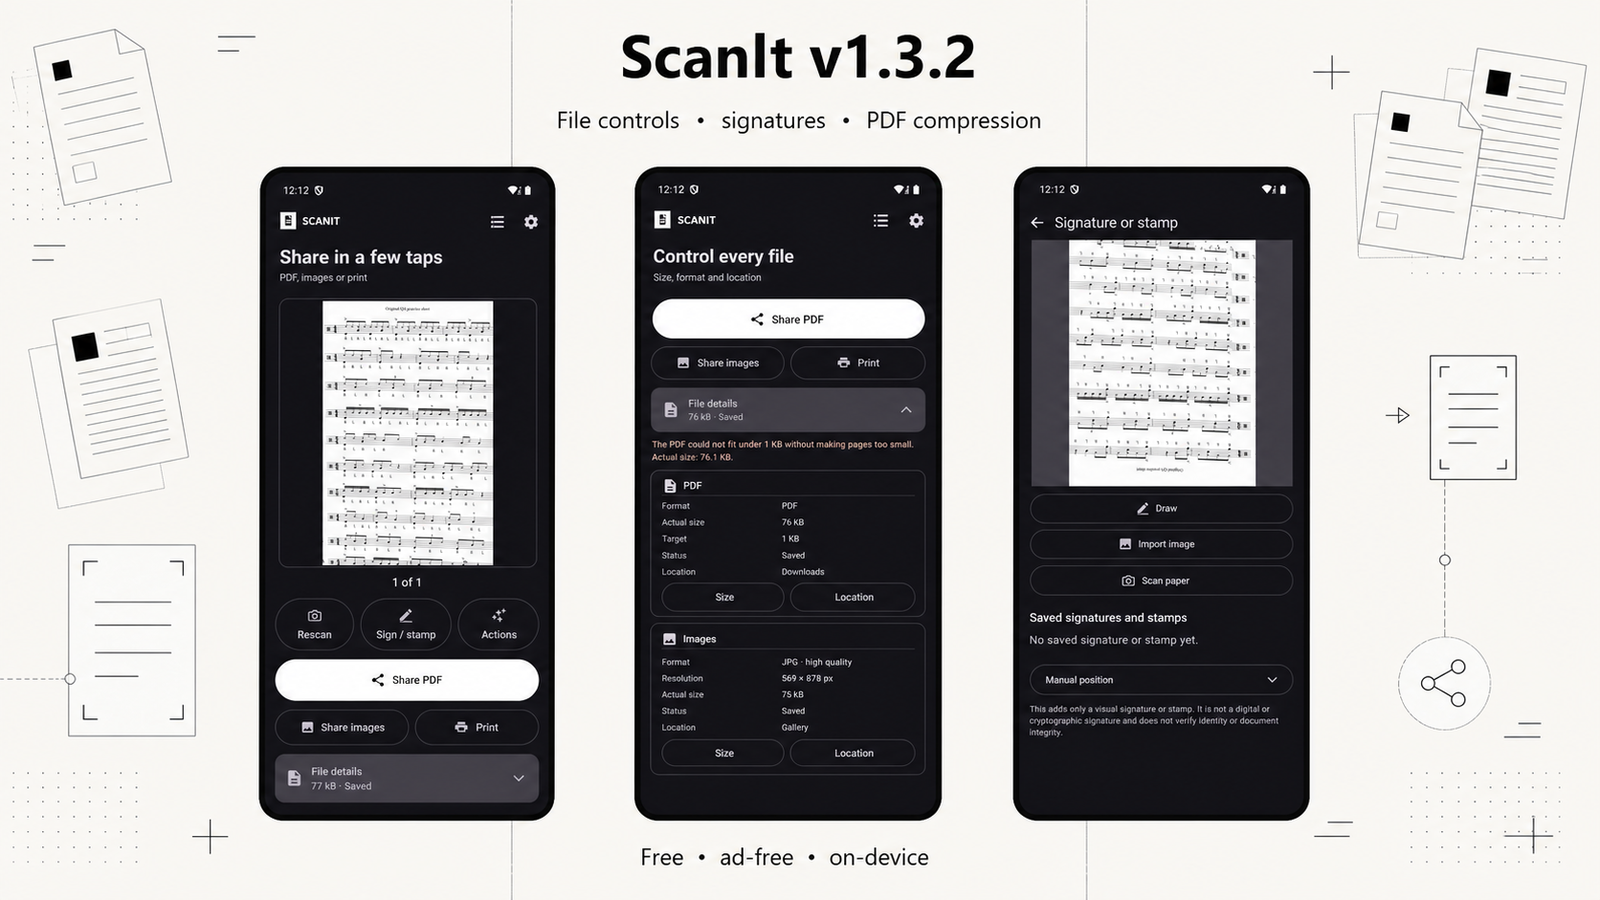
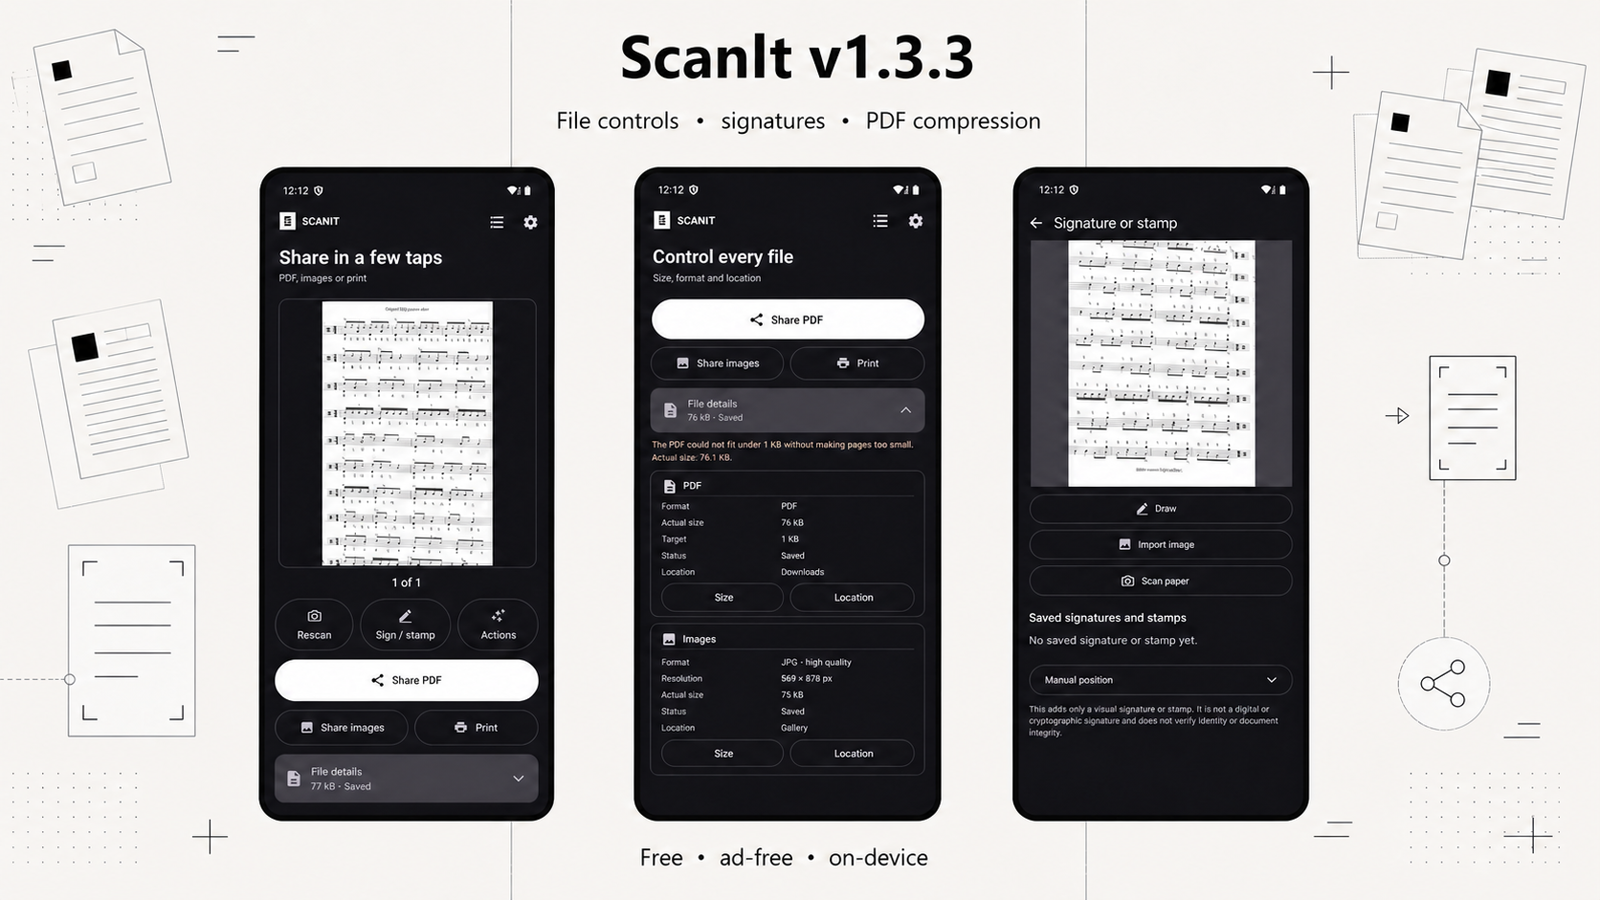
chore(release): prepare ScanIt 1.3.3

diff --git a/docs/play-store/PLAY_CONSOLE.md b/docs/play-store/PLAY_CONSOLE.md
@@ -19,8 +19,8 @@ submitted declarations:
 |---|---|
 | App name | `ScanIt` |
 | Package | `com.majkeylab.scanit` |
-| Version code | `16` |
-| Version name | `1.3.2` |
+| Version code | `17` |
+| Version name | `1.3.3` |
 | Default language | English (United States) |
 | App or game | App |
 | Category | Productivity |
@@ -126,29 +126,29 @@ the Play developer account.
 >
 > Skener používá Google ML Kit Document Scanner a vyžaduje služby Google Play. Služby Google Play mohou před prvním použitím stáhnout modul skeneru nebo rozpoznávání a zpracovávat omezené diagnostické a provozní údaje.
 
-## Release notes — version 16 / 1.3.2
+## Release notes — version 17 / 1.3.3
 
 Each block is below Google Play's 500-character per-language limit.
 
 ### English (United States)
 
-> PDF targets now include 200 KB, 500 KB, and 1 MB, plus custom values from 1 KB to 500 MB. Result actions are more compact. File details groups image Size and Location beside each other with Format below. App info restores Privacy policy, third-party notices, source code, and version links.
+> Result actions are now compact 48 dp buttons with smaller icons and spacing while preserving accessible touch targets. The refreshed Result screenshot matches the final layout. PDF targets still include 200 KB, 500 KB, 1 MB, and custom values from 1 KB to 500 MB.
 
 ### Čeština
 
-> Cíle PDF nově zahrnují 200 KB, 500 KB a 1 MB i vlastní hodnotu 1 KB–500 MB. Akce výsledku jsou úspornější. Detaily souboru řadí velikost a umístění obrázků vedle sebe a formát pod ně. Informace o aplikaci znovu obsahují soukromí, oznámení třetích stran, zdrojový kód a verzi.
+> Akce výsledku jsou nyní kompaktní tlačítka 48 dp s menšími ikonami a rozestupy, ale zachovávají přístupnou dotykovou plochu. Aktualizovaný snímek odpovídá finálnímu vzhledu. Cíle PDF nadále zahrnují 200 KB, 500 KB, 1 MB a vlastní hodnoty 1 KB–500 MB.
 
 ### Deutsch
 
-> PDF-Ziele umfassen jetzt 200 KB, 500 KB und 1 MB sowie eigene Werte von 1 KB bis 500 MB. Ergebnisaktionen sind kompakter. Dateidetails zeigt Bildgröße und Speicherort nebeneinander, das Format darunter. App-Informationen enthält wieder Datenschutz, Drittanbieterhinweise, Quellcode und Version.
+> Die Ergebnisaktionen sind jetzt kompakte 48-dp-Schaltflächen mit kleineren Symbolen und Abständen bei zugänglichen Berührungszielen. Der aktualisierte Screenshot zeigt das finale Layout. PDF-Ziele umfassen weiterhin 200 KB, 500 KB, 1 MB und eigene Werte von 1 KB bis 500 MB.
 
 ### Español
 
-> Los objetivos de PDF ahora incluyen 200 KB, 500 KB y 1 MB, además de valores personalizados de 1 KB a 500 MB. Las acciones son más compactas. Detalles del archivo muestra Tamaño y Ubicación de imágenes juntos y Formato debajo. Información de la aplicación recupera privacidad, avisos, código fuente y versión.
+> Las acciones del resultado ahora son botones compactos de 48 dp con iconos y espacios menores, manteniendo objetivos táctiles accesibles. La captura actualizada refleja el diseño final. Los objetivos PDF siguen incluyendo 200 KB, 500 KB, 1 MB y valores personalizados de 1 KB a 500 MB.
 
 ### 简体中文
 
-> PDF 目标新增 200 KB、500 KB 和 1 MB，并支持 1 KB–500 MB 自定义值。结果操作更紧凑。文件详情将图片大小和位置并排显示，格式置于下方。应用信息重新提供隐私政策、第三方声明、源代码和版本。
+> 结果操作现采用紧凑的 48 dp 按钮、更小的图标和间距，同时保留易用的触控区域。更新后的截图与最终界面一致。PDF 目标仍支持 200 KB、500 KB、1 MB，以及 1 KB–500 MB 自定义值。
 
 The listing describes current implemented public behavior only. It does not
 claim certificate-backed signatures, guaranteed PDF compression, cloud
@@ -326,7 +326,7 @@ action, donation, unfinished feature, or device mockup in the feature graphic.
 
 ## Submission checklist
 
-- [ ] Signed AAB is exactly `com.majkeylab.scanit`, version code 16, version `1.3.2`; verify after the final release build.
+- [ ] Signed AAB is exactly `com.majkeylab.scanit`, version code 17, version `1.3.3`; verify after the final release build.
 - [x] R8 mapping from the exact build is retained. The only native library is a prebuilt dependency without a separate symbol payload; no fake symbols are uploaded.
 - [x] Public artifact contains no public cloud-processing code or app-owned `INTERNET` permission.
 - [x] Complete third-party license text and applicable notices are packaged with the APK/AAB distribution and verified in the exact artifact.

diff --git a/README.md b/README.md
@@ -13,10 +13,10 @@
 </p>
 
 <p align="center">
-  <a href="https://github.com/Majkey25/ScanIt/releases/tag/v1.3.2"><img src="docs/images/scanit-v1.1-update.png" width="100%" alt="ScanIt v1.3.2 showing the Result screen, file controls, and visual signature editor."></a>
+  <a href="https://github.com/Majkey25/ScanIt/releases/tag/v1.3.3"><img src="docs/images/scanit-v1.1-update.png" width="100%" alt="ScanIt v1.3.3 showing the Result screen, file controls, and visual signature editor."></a>
 </p>
 
-## v1.3.2 update
+## v1.3.3 update
 
 The current stable release keeps the full Google scan editor with page previews,
 crop and rotate, and Google's filter gallery, then continues directly to the
@@ -43,10 +43,10 @@ delivered by Google Play services. The recognition model may download
 before its first use; Actions report that state and can be retried afterward.
 
 Result pages now swipe horizontally and reveal the edge of the next page.
-Rescan, Sign / stamp, and Actions are clear buttons, while File details groups
+Rescan, Sign / stamp, and Actions are compact accessible buttons, while File details groups
 PDF and image changes into compact Size, Format, and Location controls.
 
-[Download ScanIt v1.3.2](https://github.com/Majkey25/ScanIt/releases/tag/v1.3.2)
+[Download ScanIt v1.3.3](https://github.com/Majkey25/ScanIt/releases/tag/v1.3.3)
 or read the [full changelog](CHANGELOG.md).
 
 <p align="center">

diff --git a/CHANGELOG.md b/CHANGELOG.md
@@ -2,6 +2,13 @@
 
 All notable changes are documented here.
 
+## [1.3.3] - 2026-08-16
+
+### Changed
+
+- Tightened Rescan, Sign / stamp, and Actions to compact 48 dp buttons with smaller icons and spacing while preserving accessible touch targets.
+- Refreshed the English and Czech Result screenshots to match the final compact layout.
+
 ## [1.3.2] - 2026-08-16
 
 ### Added
@@ -176,6 +183,7 @@ Historical copies retain the license supplied with them. See
 [1.3.0]: https://github.com/Majkey25/ScanIt/compare/v1.2.4...v1.3.0
 [1.3.1]: https://github.com/Majkey25/ScanIt/compare/v1.3.0...v1.3.1
 [1.3.2]: https://github.com/Majkey25/ScanIt/compare/v1.3.1...v1.3.2
+[1.3.3]: https://github.com/Majkey25/ScanIt/compare/v1.3.2...v1.3.3
 [1.2.1]: https://github.com/Majkey25/ScanIt/compare/v1.2.0...v1.2.1
 [1.1.0-alpha.1]: https://github.com/Majkey25/ScanIt/compare/v1.0.0-preview.1...main
 [1.2.0-beta.2]: https://github.com/Majkey25/ScanIt/compare/v1.0.0-preview.1...v1.2.0-beta.2
